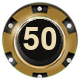
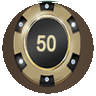
release: v1.0.2 替换 50 筹码图，保留升起点击

diff --git a/index.html b/index.html
@@ -5,11 +5,11 @@
   <meta name="viewport" content="width=device-width, initial-scale=1, maximum-scale=1, user-scalable=no" />
   <meta name="robots" content="noindex,nofollow" />
   <title>Forest Group · 骰宝</title>
-  <link rel="preload" as="image" href="pc-full.webp?v=v1.0.1" type="image/webp" fetchpriority="high" />
-  <link rel="preload" as="image" href="chips/chip-10.webp?v=v1.0.1" type="image/webp" />
-  <link rel="preload" as="image" href="chips/chip-20.webp?v=v1.0.1" type="image/webp" />
-  <link rel="preload" as="image" href="chips/chip-50.webp?v=v1.0.1" type="image/webp" />
-  <link rel="preload" as="image" href="chips/chip-100.webp?v=v1.0.1" type="image/webp" />
+  <link rel="preload" as="image" href="pc-full.webp?v=v1.0.2" type="image/webp" fetchpriority="high" />
+  <link rel="preload" as="image" href="chips/chip-10.webp?v=v1.0.2" type="image/webp" />
+  <link rel="preload" as="image" href="chips/chip-20.webp?v=v1.0.2" type="image/webp" />
+  <link rel="preload" as="image" href="chips/chip-50.webp?v=v1.0.2" type="image/webp" />
+  <link rel="preload" as="image" href="chips/chip-100.webp?v=v1.0.2" type="image/webp" />
   <style>
     :root {
       --stage-w: 2188;
@@ -65,7 +65,7 @@
       z-index: 20;
     }
 
-    /* 筹码贴图始终盖住底图，平贴干净；点选才抬起 */
+    /* 未点：露出底图原筹码。一点：原位贴上 → 升起，原底边变光柱（高度对齐黄50，只压一点绿边） */
     .chip-btn {
       position: absolute;
       z-index: 32;
@@ -80,14 +80,15 @@
     }
     .chip-btn:focus,
     .chip-btn:focus-visible { outline: none !important; }
+    /* 光圈：钉在原筹码底边位置，不跟着筹码走 */
     .chip-btn::after {
       content: "";
       position: absolute;
       left: 50%;
-      bottom: -6%;
-      width: 118%;
-      height: 34%;
-      transform: translateX(-50%) scale(0.6);
+      bottom: 0;
+      width: 112%;
+      height: 32%;
+      transform: translateX(-50%) scale(0.55);
       border-radius: 50%;
       background:
         radial-gradient(ellipse at center,
@@ -101,16 +102,17 @@
       opacity: 0;
       pointer-events: none;
       z-index: 0;
-      transition: opacity .14s ease, transform .16s ease;
+      transition: opacity .16s ease, transform .2s cubic-bezier(.2,.8,.2,1);
     }
+    /* 光柱：从原底边往上，背景不动 */
     .chip-btn::before {
       content: "";
       position: absolute;
       left: 50%;
-      bottom: 8%;
-      width: 88%;
-      height: 145%;
-      transform: translateX(-50%) scaleY(0.5);
+      bottom: 10%;
+      width: 86%;
+      height: 140%;
+      transform: translateX(-50%) scaleY(0.35);
       transform-origin: 50% 100%;
       background:
         repeating-linear-gradient(
@@ -134,9 +136,8 @@
       pointer-events: none;
       z-index: 0;
       filter: blur(0.4px);
-      transition: opacity .14s ease, transform .16s ease;
+      transition: opacity .16s ease, transform .2s cubic-bezier(.2,.8,.2,1);
     }
-    /* 筹码不盖贴图：露出最早底图原筹码，只留点击热区 */
     .chip-btn img {
       position: relative;
       z-index: 1;
@@ -145,11 +146,18 @@
       border-radius: 50%;
       pointer-events: none;
       opacity: 0;
-      transform: translateY(0) scale(1);
-      transition: transform .16s cubic-bezier(.2,.8,.2,1), filter .14s ease, opacity .14s ease;
+      transform: translateY(0);
+      transition: transform .2s cubic-bezier(.2,.8,.2,1);
       filter: none;
+      will-change: transform;
     }
     .chip-btn.on { z-index: 99; }
+    .chip-btn.on img {
+      opacity: 1;
+      filter:
+        drop-shadow(0 8px 6px rgba(0,0,0,.45))
+        drop-shadow(0 0 4px rgba(255,255,255,.5));
+    }
     .chip-btn.on::before {
       opacity: 1;
       transform: translateX(-50%) scaleY(1);
@@ -158,12 +166,9 @@
       opacity: 1;
       transform: translateX(-50%) scale(1);
     }
-    .chip-btn.on img {
-      opacity: 1;
-      transform: translateY(-26%) scale(1.1);
-      filter:
-        drop-shadow(0 10px 8px rgba(0,0,0,.5))
-        drop-shadow(0 0 5px rgba(255,255,255,.65));
+    /* 升起：与黄50同高，只压一点绿边；不加放大 */
+    .chip-btn.on.up img {
+      transform: translateY(-22%);
     }
 
     /* 最早热区位置，不动筹码底图 */
@@ -177,23 +182,23 @@
   <div class="frame">
     <div class="stage">
       <picture>
-        <source srcset="pc-full.webp?v=v1.0.1" type="image/webp" />
-        <img class="bg" id="bgImg" src="pc-full.jpg?v=v1.0.1" alt="骰宝" width="2188" height="1393" decoding="async" fetchpriority="high" draggable="false" />
+        <source srcset="pc-full.webp?v=v1.0.2" type="image/webp" />
+        <img class="bg" id="bgImg" src="pc-full.jpg?v=v1.0.2" alt="骰宝" width="2188" height="1393" decoding="async" fetchpriority="high" draggable="false" />
       </picture>
 
       <div class="bal">2,000</div>
 
       <button class="chip-btn" id="chip-a" data-slot="0" type="button" aria-label="筹码10">
-        <img src="chips/chip-10.webp?v=v1.0.1" alt="" decoding="async" draggable="false" />
+        <img src="chips/chip-10.webp?v=v1.0.2" alt="" decoding="async" draggable="false" />
       </button>
       <button class="chip-btn" id="chip-b" data-slot="1" type="button" aria-label="筹码20">
-        <img src="chips/chip-20.webp?v=v1.0.1" alt="" decoding="async" draggable="false" />
+        <img src="chips/chip-20.webp?v=v1.0.2" alt="" decoding="async" draggable="false" />
       </button>
       <button class="chip-btn" id="chip-c" data-slot="2" type="button" aria-label="筹码50">
-        <img src="chips/chip-50.webp?v=v1.0.1" alt="" decoding="async" draggable="false" />
+        <img src="chips/chip-50.webp?v=v1.0.2" alt="" decoding="async" draggable="false" />
       </button>
       <button class="chip-btn" id="chip-d" data-slot="3" type="button" aria-label="筹码100">
-        <img src="chips/chip-100.webp?v=v1.0.1" alt="" decoding="async" draggable="false" />
+        <img src="chips/chip-100.webp?v=v1.0.2" alt="" decoding="async" draggable="false" />
       </button>
     </div>
   </div>
@@ -206,9 +211,14 @@
       const chips = [...document.querySelectorAll('.chip-btn')];
       chips.forEach((btn) => {
         btn.addEventListener('click', () => {
-          const on = !btn.classList.contains('on');
-          chips.forEach((b) => b.classList.remove('on'));
-          if (on) btn.classList.add('on');
+          const turnOn = !btn.classList.contains('on');
+          chips.forEach((b) => b.classList.remove('on', 'up'));
+          if (!turnOn) return;
+          // 先原位贴上，再抬起（上升动作，不是直接盖住）
+          btn.classList.add('on');
+          requestAnimationFrame(() => {
+            requestAnimationFrame(() => btn.classList.add('up'));
+          });
         });
       });
     })();
